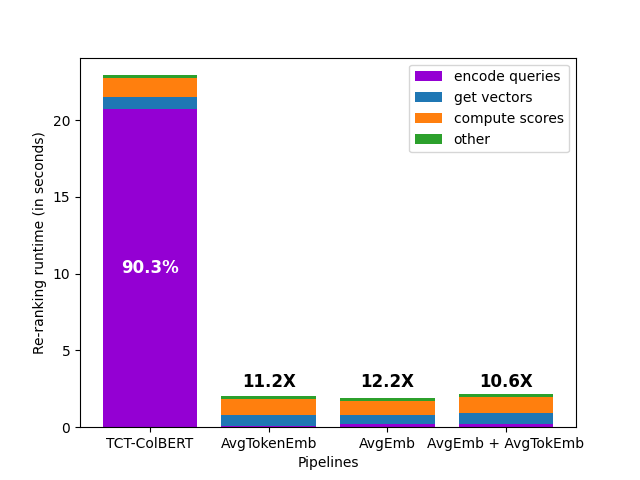
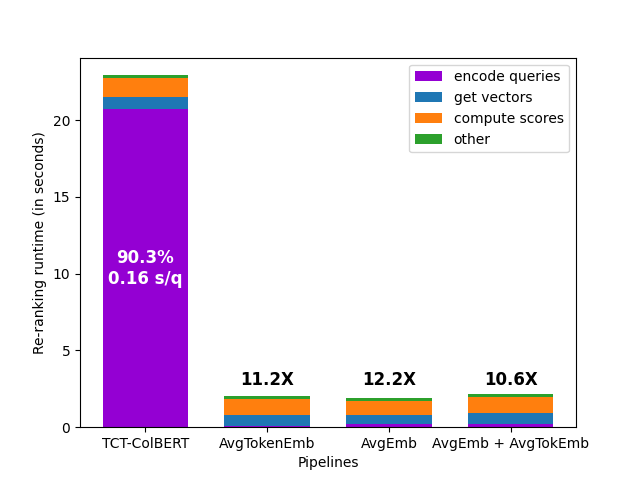
f

diff --git a/usage/plot_runtimes.py b/usage/plot_runtimes.py
@@ -32,7 +32,7 @@ def plot_runtimes(profiles: List[Dict[str, Any]]):
 
     fig, ax = plt.subplots()
 
-    bar_width = 0.8
+    bar_width = 0.7
     bars = [
         ax.bar(names, encode_queries, color="darkviolet", label="encode queries", width=bar_width),
         ax.bar(names, get_vectors, bottom=encode_queries, label="get vectors", width=bar_width),
@@ -40,21 +40,13 @@ def plot_runtimes(profiles: List[Dict[str, Any]]):
         ax.bar(names, other, bottom=np.array(encode_queries) + np.array(get_vectors) + np.array(compute_scores), label="other", width=bar_width),
     ]
 
-    # Ensure all legend entries are included
-    handles, labels = ax.get_legend_handles_labels()
-    unique_handles_labels = dict(zip(labels, handles))  # Remove duplicates
-    ax.legend(unique_handles_labels.values(), unique_handles_labels.keys())
-
     # Add percentage text for the first bar of "encode_queries"
     bar = bars[0][0]
     runtime = encode_queries[0]
-    total = index_call[0]
-    height = bar.get_height()
-    percentage = (runtime / total) * 100
     ax.text(
         bar.get_x() + bar.get_width() / 2,
-        bar.get_y() + height / 2,
-        f'{percentage:.1f}%',
+        bar.get_y() + bar.get_height() / 2,
+        f'{(runtime / index_call[0]) * 100:.1f}%\n{runtime / 128:.2f} s/q',
         ha='center',
         va='center',
         color='white',
@@ -64,13 +56,11 @@ def plot_runtimes(profiles: List[Dict[str, Any]]):
 
     # Add speedup text for bars except the first
     for i in range(1, len(names)):
-        speedup = index_call[0] / index_call[i]
         bar = bars[0][i]
-        height = 2.25
         ax.text(
             bar.get_x() + bar.get_width() / 2,
-            bar.get_y() + height + 0.1,
-            f'{speedup:.1f}X',
+            bar.get_y() + 2.5,
+            f'{index_call[0] / index_call[i]:.1f}X',
             ha='center',
             va='bottom',
             color='black',
@@ -82,8 +72,7 @@ def plot_runtimes(profiles: List[Dict[str, Any]]):
     ax.set_ylabel('Re-ranking runtime (in seconds)')
     ax.legend()
 
-    fig.savefig("reranking_runtimes.png")  # Save plot as a PNG file
-    plt.show()
+    fig.savefig("reranking_runtimes.png", transparent=True)
 
 
 def main(args: argparse.Namespace) -> None:
